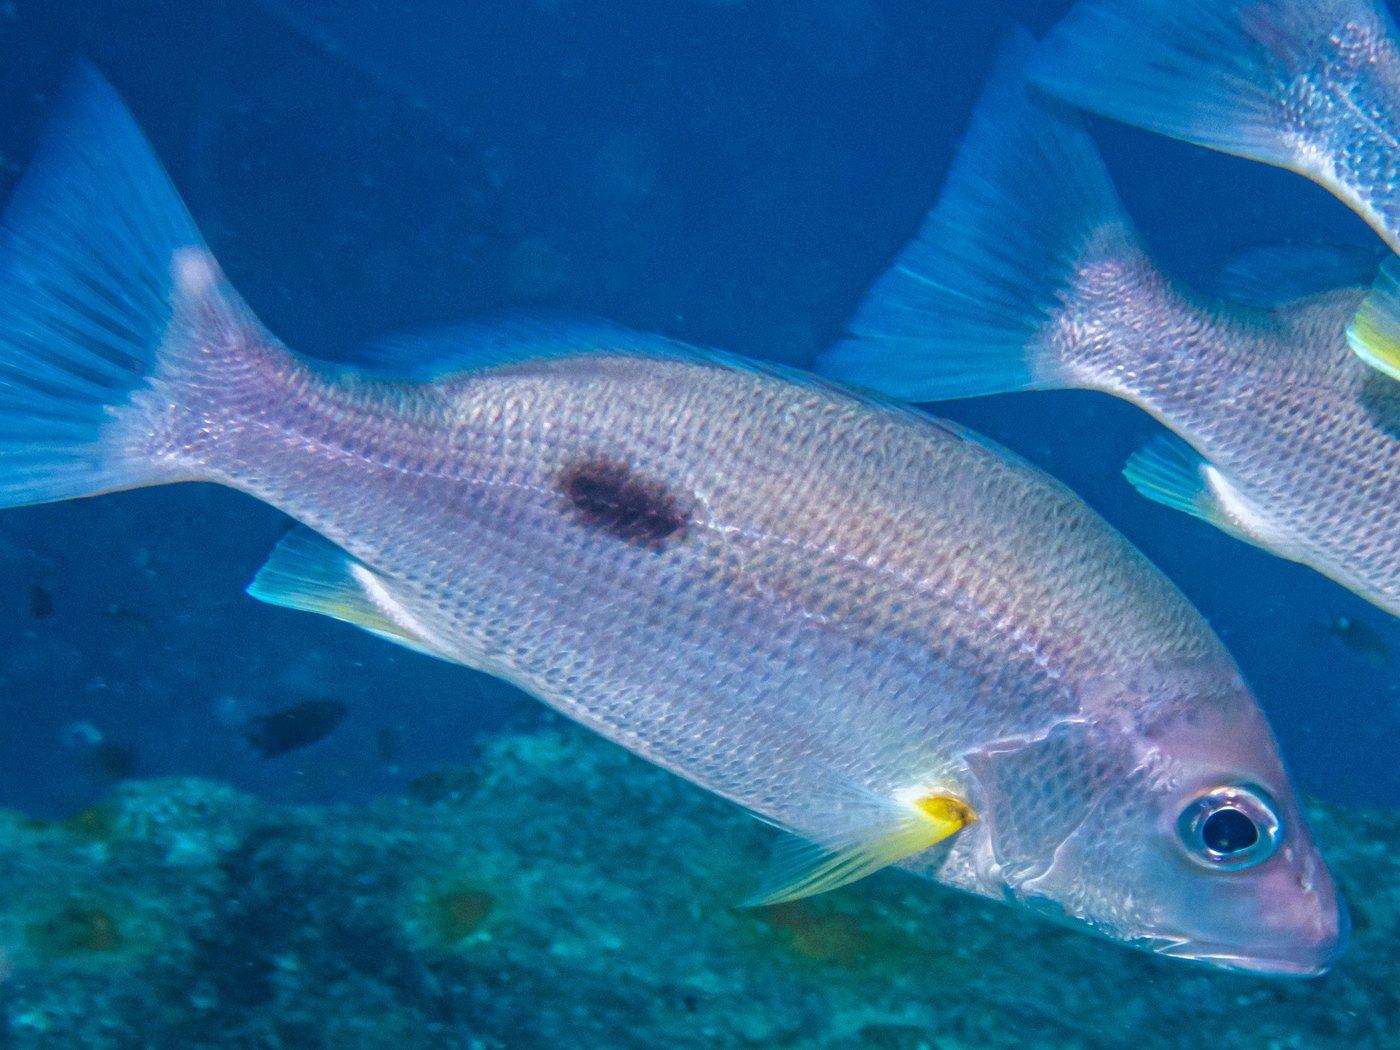
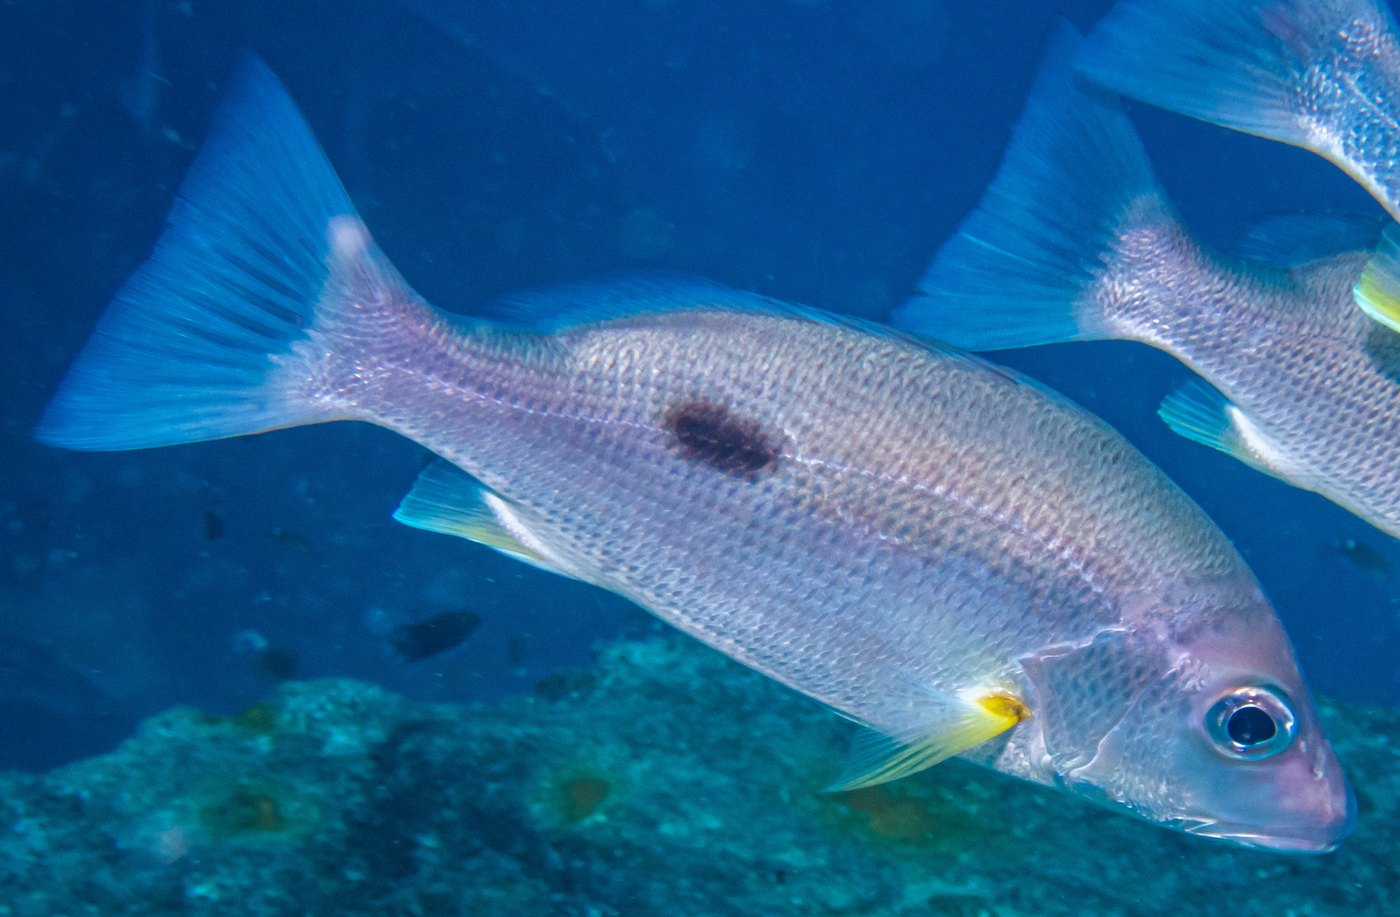
photos: apply crop review (36 kept, 7 pulled, 1 rotated)

diff --git a/js/data/species-photos.js b/js/data/species-photos.js
@@ -15,20 +15,16 @@ export const SPECIES_PHOTOS = {
   'caranx-ignobilis': { file: 'assets/photos/caranx-ignobilis.jpg', credit: '(c) Nicola Crockford, some rights reserved (CC BY)', licence: 'CC BY', source: 'https://www.inaturalist.org/observations/187411947' },
   'caranx-melampygus': { file: 'assets/photos/caranx-melampygus.jpg', credit: '(c) Ben Costamagna, some rights reserved (CC BY)', licence: 'CC BY', source: 'https://www.inaturalist.org/observations/356367436' },
   'cheilopogon-cyanopterus': { file: 'assets/photos/cheilopogon-cyanopterus.jpg', credit: '(c) Charlotte Kirchner, some rights reserved (CC BY)', licence: 'CC BY', source: 'https://www.inaturalist.org/observations/244511323' },
-  'decapterus-macrosoma': { file: 'assets/photos/decapterus-macrosoma.jpg', credit: '(c) Ong Jyh Seng, some rights reserved (CC BY-SA)', licence: 'CC BY-SA', source: 'https://www.inaturalist.org/observations/54895238' },
   'elagatis-bipinnulata': { file: 'assets/photos/elagatis-bipinnulata.jpg', credit: '(c) Nicola Crockford, some rights reserved (CC BY)', licence: 'CC BY', source: 'https://www.inaturalist.org/observations/240505975' },
-  'eleutheronema-tetradactylum': { file: 'assets/photos/eleutheronema-tetradactylum.jpg', credit: '(c) Ong Jyh Seng, some rights reserved (CC BY-SA)', licence: 'CC BY-SA', source: 'https://www.inaturalist.org/observations/145654814' },
   'epinephelus-coioides': { file: 'assets/photos/epinephelus-coioides.jpg', credit: '(c) Ewout Knoester, some rights reserved (CC BY-SA)', licence: 'CC BY-SA', source: 'https://www.inaturalist.org/observations/22074323' },
   'epinephelus-malabaricus': { file: 'assets/photos/epinephelus-malabaricus.jpg', credit: '(c) portioid, some rights reserved (CC BY)', licence: 'CC BY', source: 'https://www.inaturalist.org/observations/190298297' },
   'gerres-filamentosus': { file: 'assets/photos/gerres-filamentosus.jpg', credit: '(c) Teja Yantrapalli, some rights reserved (CC BY)', licence: 'CC BY', source: 'https://www.inaturalist.org/observations/308719179' },
-  'katsuwonus-pelamis': { file: 'assets/photos/katsuwonus-pelamis.jpg', credit: '(c) Antoine MARNAT, some rights reserved (CC BY)', licence: 'CC BY', source: 'https://www.inaturalist.org/observations/349928221' },
   'leiognathus-equulus': { file: 'assets/photos/leiognathus-equulus.jpg', credit: 'no rights reserved', licence: 'CC0', source: 'https://www.inaturalist.org/observations/58008948' },
   'lethrinus-harak': { file: 'assets/photos/lethrinus-harak.jpg', credit: '(c) Nicola Crockford, some rights reserved (CC BY)', licence: 'CC BY', source: 'https://www.inaturalist.org/observations/188311782' },
   'lethrinus-lentjan': { file: 'assets/photos/lethrinus-lentjan.jpg', credit: '(c) portioid, some rights reserved (CC BY)', licence: 'CC BY', source: 'https://www.inaturalist.org/observations/190298275' },
   'lutjanus-argentimaculatus': { file: 'assets/photos/lutjanus-argentimaculatus.jpg', credit: '(c) Pierre Pericard, some rights reserved (CC BY)', licence: 'CC BY', source: 'https://www.inaturalist.org/observations/321013012' },
   'lutjanus-fulviflamma': { file: 'assets/photos/lutjanus-fulviflamma.jpg', credit: '(c) Georgina Jones, some rights reserved (CC BY-SA)', licence: 'CC BY-SA', source: 'https://www.inaturalist.org/observations/138463173' },
   'lutjanus-johnii': { file: 'assets/photos/lutjanus-johnii.jpg', credit: '(c) portioid, some rights reserved (CC BY)', licence: 'CC BY', source: 'https://www.inaturalist.org/observations/171700073' },
-  'lutjanus-malabaricus': { file: 'assets/photos/lutjanus-malabaricus.jpg', credit: '(c) Ong Jyh Seng, some rights reserved (CC BY-SA)', licence: 'CC BY-SA', source: 'https://www.inaturalist.org/observations/206401516' },
   'lutjanus-russellii': { file: 'assets/photos/lutjanus-russellii.jpg', credit: '(c) portioid, some rights reserved (CC BY)', licence: 'CC BY', source: 'https://www.inaturalist.org/observations/186853322' },
   'megalaspis-cordyla': { file: 'assets/photos/megalaspis-cordyla.jpg', credit: '(c) Manoj Karingamadathil, some rights reserved (CC BY-SA)', licence: 'CC BY-SA', source: 'https://www.inaturalist.org/observations/18029913' },
   'megalops-cyprinoides': { file: 'assets/photos/megalops-cyprinoides.jpg', credit: '(c) renjus box, some rights reserved (CC BY)', licence: 'CC BY', source: 'https://www.inaturalist.org/observations/147887646' },
@@ -47,9 +43,7 @@ export const SPECIES_PHOTOS = {
   'sillago-sihama': { file: 'assets/photos/sillago-sihama.jpg', credit: '(c) renjus box, some rights reserved (CC BY)', licence: 'CC BY', source: 'https://www.inaturalist.org/observations/150735037' },
   'sphyraena-barracuda': { file: 'assets/photos/sphyraena-barracuda.jpg', credit: '(c) Dan Schofield, some rights reserved (CC BY)', licence: 'CC BY', source: 'https://www.inaturalist.org/observations/315698595' },
   'terapon-jarbua': { file: 'assets/photos/terapon-jarbua.jpg', credit: '(c) Mattia Menchetti, some rights reserved (CC BY)', licence: 'CC BY', source: 'https://www.inaturalist.org/observations/195744695' },
-  'thunnus-obesus': { file: 'assets/photos/thunnus-obesus.jpg', credit: '(c) Bobby McCabe, some rights reserved (CC BY)', licence: 'CC BY', source: 'https://www.inaturalist.org/observations/174351283' },
   'upeneus-tragula': { file: 'assets/photos/upeneus-tragula.jpg', credit: '(c) Dan Schofield, some rights reserved (CC BY)', licence: 'CC BY', source: 'https://www.inaturalist.org/observations/27138867' },
-  'uroteuthis-duvaucelii': { file: 'assets/photos/uroteuthis-duvaucelii.jpg', credit: '(c) Karim Haddad, some rights reserved (CC BY)', licence: 'CC BY', source: 'https://www.inaturalist.org/observations/74824787' },
 };
 
 export const photoFor = (id) => SPECIES_PHOTOS[id] || null;

diff --git a/js/data/changelog.js b/js/data/changelog.js
@@ -28,7 +28,7 @@ export const CHANGELOG = [
     date: '2026-08-03',
     title: 'Real photographs, and spots need an account',
     changes: [
-      '43 species now show a real photograph instead of drawn art.',
+      '36 species now show a real photograph instead of drawn art.',
       'Photos are as taken — cropped and centred on the fish, never cut out of them.',
       'Every photo is openly licensed and credits its photographer.',
       'The rest still say "photo not yet available" rather than showing a stand-in.',

diff --git a/tools/fish_photos.py b/tools/fish_photos.py
@@ -1373,12 +1373,21 @@ def cmd_build(args):
         # A photo failed in the crop review is pulled entirely — the card says
         # "photo not yet available", which is the honest state until it is
         # replaced, rather than shipping something already judged wrong.
-        if crops.get(sid, {}).get("verdict") == "fail":
+        cv = crops.get(sid, {})
+        # "Replace this" and "rotate this" together is a contradiction worth
+        # surfacing rather than resolving quietly: it usually means the photo
+        # was failed BECAUSE it was sideways, and straightening it is the fix.
+        # Building it keeps the choice open; pulling it would throw away a
+        # photo the remark says is fine.
+        if cv.get("verdict") == "fail" and not int(cv.get("rotate", 0)):
             out_dead = OUT_DIR / f"{sid}.jpg"
             if out_dead.exists():
                 out_dead.unlink()
             print(f"  {sid:34} pulled — marked 'replace' in the crop review")
             continue
+        if cv.get("verdict") == "fail":
+            print(f"  {sid:34} marked 'replace' BUT rotated — building it rotated "
+                  f"so you can judge it straightened")
         cand = rec["candidates"][idx]
         out = OUT_DIR / f"{sid}.jpg"
 
@@ -1430,7 +1439,11 @@ def cmd_build(args):
                     note = "centred on fish"
                 else:
                     note = "fish too long to frame — full frame kept"
-            else:
+            elif crops.get(sid, {}).get("verdict") != "full":
+                # Only say the detector found nothing when it actually looked.
+                # For a "use whole photo" verdict it was never asked, and
+                # reporting a failure there would send you hunting a bug that
+                # is really your own instruction being followed.
                 note = "no subject found — full frame kept"
             fitted[note] = fitted.get(note, 0) + 1
 
